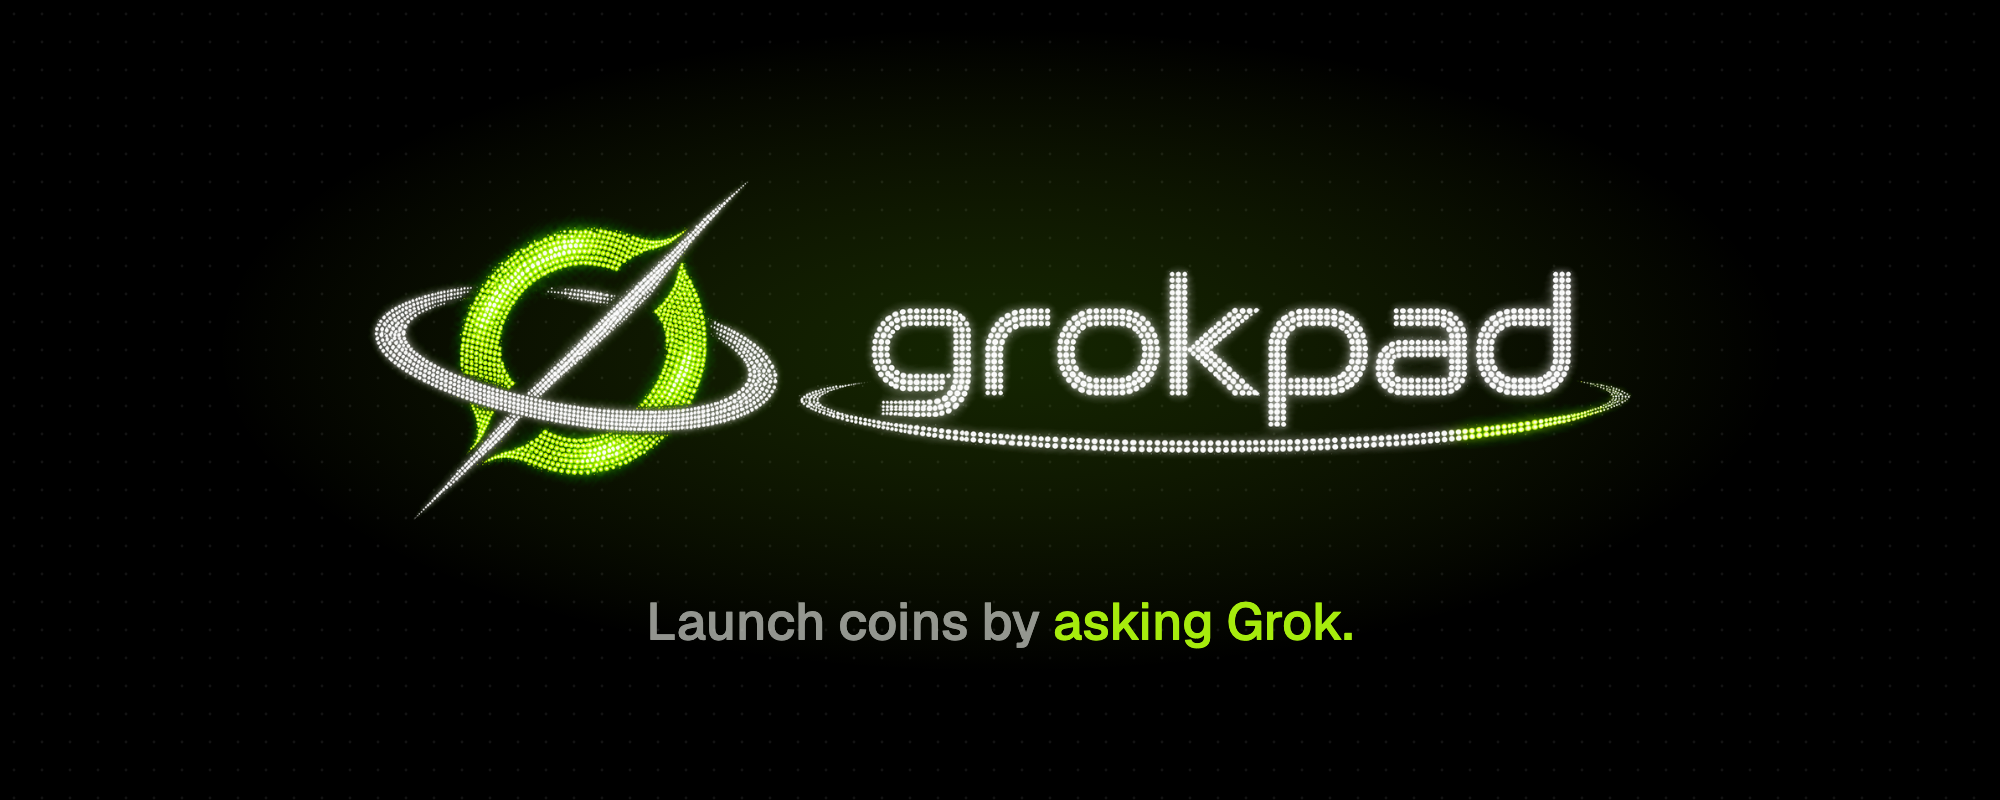
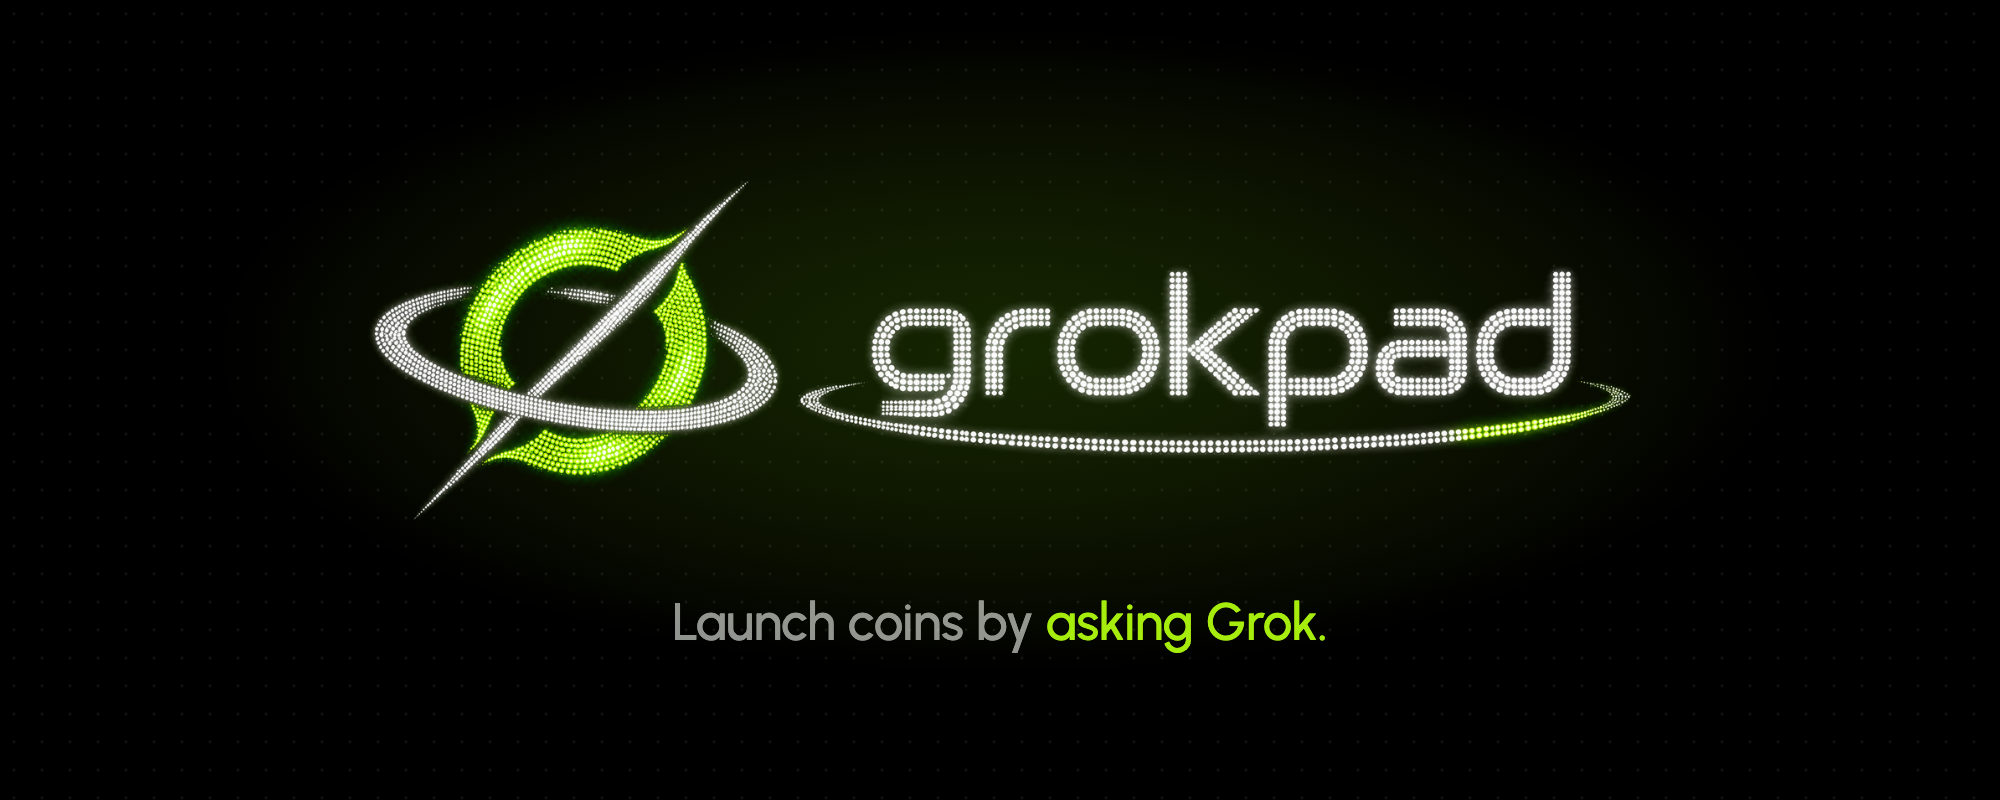
feat: Grokpad article in the brand font kit
Urbanist matches the wordmark's round single-storey letters; Doto in round-dot mode matches its LEDs, so big numbers read as part of the brand.

Changed region(s): [[0.31, 0.75, 0.682, 0.8125]]

diff --git a/kits/grokpad/art/02-setup.html b/kits/grokpad/art/02-setup.html
@@ -1,15 +1,18 @@
 <!doctype html><html><head><meta charset="utf-8">
 <link rel="preconnect" href="https://fonts.googleapis.com"><link rel="preconnect" href="https://fonts.gstatic.com" crossorigin>
-<link href="https://fonts.googleapis.com/css2?family=Geist:wght@400;500;600;700&family=JetBrains+Mono:wght@400;500;700&display=block" rel="stylesheet">
+<link href="https://fonts.googleapis.com/css2?family=Urbanist:wght@400;500;600;700&family=Doto:ROND,wght@0..100,100..900&family=JetBrains+Mono:wght@400;500;700&display=block" rel="stylesheet">
 <style>
 html,body{margin:0;padding:0;background:#000000;overflow:hidden}
 svg{display:block}
-.disp{font-family:Geist;font-weight:600;fill:#f4f6ee;letter-spacing:-0.04em}
-.txt{font-family:Geist;fill:#f4f6ee}
-.muted{font-family:Geist;fill:rgb(244 246 238 / 0.6)}
-.dim{font-family:Geist;fill:rgb(244 246 238 / 0.38)}
+.disp{font-family:Urbanist;font-weight:700;fill:#f4f6ee;letter-spacing:-0.03em}
+.txt{font-family:Urbanist;fill:#f4f6ee}
+.muted{font-family:Urbanist;fill:rgb(244 246 238 / 0.6)}
+.dim{font-family:Urbanist;fill:rgb(244 246 238 / 0.38)}
 .mono{font-family:'JetBrains Mono';fill:#f4f6ee}
 .lime{fill:#a6ec0d}
+.led{fill:#f4f6ee;font-family:Doto;font-variation-settings:'ROND' 100;font-weight:900}
+.led.lime{fill:#a6ec0d}
+.glow{filter:drop-shadow(0 0 10px #5aab04)}
 .panel{fill:#0a0a0a;stroke:rgb(255 255 255 / 0.15);stroke-width:2}
 .panel-lit{fill:#0d1306;stroke:#a6ec0d;stroke-width:3}
 .wire{fill:none;stroke:#a6ec0d;stroke-width:5;stroke-linecap:round}
@@ -18,4 +21,4 @@ svg{display:block}
 </style></head><body><svg width="1600" height="900" viewBox="0 0 1600 900"><defs>
 <radialGradient id="glow" cx="0.5" cy="0.5" r="0.5"><stop offset="0" stop-color="#5aab04" stop-opacity="0.22"/><stop offset="1" stop-color="#a6ec0d" stop-opacity="0"/></radialGradient>
 <pattern id="dots" width="28" height="28" patternUnits="userSpaceOnUse"><circle cx="14" cy="14" r="1.4" fill="#ffffff" fill-opacity="0.075"/></pattern>
-</defs><rect width="1600" height="900" fill="url(#dots)"/><text class="disp" x="800" y="132" font-size="62" text-anchor="middle">Set it up <tspan class="lime">once.</tspan></text><path class="dash" d="M475 450H625"/><path class="dash" d="M975 450H1125"/><rect x="125" y="300" width="350" height="300" rx="20" class="panel"/><rect x="175" y="410" width="250" height="80" rx="16" fill="#f4f6ee"/><text class="txt" x="300" y="462" font-size="28" font-weight="600" text-anchor="middle" style="fill:#000000">Get my Grok link</text><text class="mono" x="300" y="368" font-size="22" text-anchor="middle" style="fill:rgb(244 246 238 / 0.38)">grokpad</text><text class="mono lime" x="300" y="550" font-size="22" text-anchor="middle">/mcp/••••••••</text><rect x="625" y="300" width="350" height="300" rx="20" class="panel"/><text class="mono" x="665" y="362" font-size="22" style="fill:rgb(244 246 238 / 0.38)">Connectors</text><rect x="665" y="394" width="270" height="64" rx="12" fill="#121212" stroke="rgb(255 255 255 / 0.15)" stroke-width="2"/><text class="mono lime" x="685" y="435" font-size="21">https://…/mcp/•••</text><rect x="665" y="480" width="270" height="64" rx="12" fill="none" stroke="#a6ec0d" stroke-width="3"/><text class="txt" x="800" y="521" font-size="26" font-weight="600" text-anchor="middle">+ Add Connector</text><rect x="1125" y="300" width="350" height="300" rx="20" class="panel-lit"/><text class="mono" x="1300" y="368" font-size="22" text-anchor="middle" style="fill:rgb(244 246 238 / 0.38)">launch wallet</text><text class="mono lime" x="1300" y="470" font-size="60" font-weight="700" text-anchor="middle">+0.1 SOL</text><text class="mono" x="1300" y="542" font-size="22" text-anchor="middle" style="fill:rgb(244 246 238 / 0.6)">launch ≈ 0.02 SOL</text><text class="txt" x="300" y="678" font-size="36" font-weight="600" text-anchor="middle">Get your link</text><text class="muted" x="300" y="724" font-size="27" text-anchor="middle">one tap, no sign-up</text><text class="txt" x="800" y="678" font-size="36" font-weight="600" text-anchor="middle">Add it to Grok</text><text class="muted" x="800" y="724" font-size="27" text-anchor="middle">paste it in Connectors</text><text class="txt" x="1300" y="678" font-size="36" font-weight="600" text-anchor="middle">Fund your wallet</text><text class="muted" x="1300" y="724" font-size="27" text-anchor="middle">just what you’ll launch with</text></svg></body></html>
+</defs><rect width="1600" height="900" fill="url(#dots)"/><text class="disp" x="800" y="132" font-size="62" text-anchor="middle">Set it up <tspan class="lime">once.</tspan></text><path class="dash" d="M475 450H625"/><path class="dash" d="M975 450H1125"/><rect x="125" y="300" width="350" height="300" rx="20" class="panel"/><rect x="175" y="410" width="250" height="80" rx="16" fill="#f4f6ee"/><text class="txt" x="300" y="462" font-size="28" font-weight="600" text-anchor="middle" style="fill:#000000">Get my Grok link</text><text class="mono" x="300" y="368" font-size="22" text-anchor="middle" style="fill:rgb(244 246 238 / 0.38)">grokpad</text><text class="mono lime" x="300" y="550" font-size="22" text-anchor="middle">/mcp/••••••••</text><rect x="625" y="300" width="350" height="300" rx="20" class="panel"/><text class="mono" x="665" y="362" font-size="22" style="fill:rgb(244 246 238 / 0.38)">Connectors</text><rect x="665" y="394" width="270" height="64" rx="12" fill="#121212" stroke="rgb(255 255 255 / 0.15)" stroke-width="2"/><text class="mono lime" x="685" y="435" font-size="21">https://…/mcp/•••</text><rect x="665" y="480" width="270" height="64" rx="12" fill="none" stroke="#a6ec0d" stroke-width="3"/><text class="txt" x="800" y="521" font-size="26" font-weight="600" text-anchor="middle">+ Add Connector</text><rect x="1125" y="300" width="350" height="300" rx="20" class="panel-lit"/><text class="mono" x="1300" y="368" font-size="22" text-anchor="middle" style="fill:rgb(244 246 238 / 0.38)">launch wallet</text><text class="led lime glow" x="1300" y="472" font-size="56" text-anchor="middle">0.1 SOL</text><text class="mono" x="1300" y="542" font-size="22" text-anchor="middle" style="fill:rgb(244 246 238 / 0.6)">launch ≈ 0.02 SOL</text><text class="txt" x="300" y="678" font-size="36" font-weight="600" text-anchor="middle">Get your link</text><text class="muted" x="300" y="724" font-size="27" text-anchor="middle">one tap, no sign-up</text><text class="txt" x="800" y="678" font-size="36" font-weight="600" text-anchor="middle">Add it to Grok</text><text class="muted" x="800" y="724" font-size="27" text-anchor="middle">paste it in Connectors</text><text class="txt" x="1300" y="678" font-size="36" font-weight="600" text-anchor="middle">Fund your wallet</text><text class="muted" x="1300" y="724" font-size="27" text-anchor="middle">just what you’ll launch with</text></svg></body></html>

diff --git a/kits/grokpad/art/04-fees.html b/kits/grokpad/art/04-fees.html
@@ -1,15 +1,18 @@
 <!doctype html><html><head><meta charset="utf-8">
 <link rel="preconnect" href="https://fonts.googleapis.com"><link rel="preconnect" href="https://fonts.gstatic.com" crossorigin>
-<link href="https://fonts.googleapis.com/css2?family=Geist:wght@400;500;600;700&family=JetBrains+Mono:wght@400;500;700&display=block" rel="stylesheet">
+<link href="https://fonts.googleapis.com/css2?family=Urbanist:wght@400;500;600;700&family=Doto:ROND,wght@0..100,100..900&family=JetBrains+Mono:wght@400;500;700&display=block" rel="stylesheet">
 <style>
 html,body{margin:0;padding:0;background:#000000;overflow:hidden}
 svg{display:block}
-.disp{font-family:Geist;font-weight:600;fill:#f4f6ee;letter-spacing:-0.04em}
-.txt{font-family:Geist;fill:#f4f6ee}
-.muted{font-family:Geist;fill:rgb(244 246 238 / 0.6)}
-.dim{font-family:Geist;fill:rgb(244 246 238 / 0.38)}
+.disp{font-family:Urbanist;font-weight:700;fill:#f4f6ee;letter-spacing:-0.03em}
+.txt{font-family:Urbanist;fill:#f4f6ee}
+.muted{font-family:Urbanist;fill:rgb(244 246 238 / 0.6)}
+.dim{font-family:Urbanist;fill:rgb(244 246 238 / 0.38)}
 .mono{font-family:'JetBrains Mono';fill:#f4f6ee}
 .lime{fill:#a6ec0d}
+.led{fill:#f4f6ee;font-family:Doto;font-variation-settings:'ROND' 100;font-weight:900}
+.led.lime{fill:#a6ec0d}
+.glow{filter:drop-shadow(0 0 10px #5aab04)}
 .panel{fill:#0a0a0a;stroke:rgb(255 255 255 / 0.15);stroke-width:2}
 .panel-lit{fill:#0d1306;stroke:#a6ec0d;stroke-width:3}
 .wire{fill:none;stroke:#a6ec0d;stroke-width:5;stroke-linecap:round}
@@ -18,4 +21,4 @@ svg{display:block}
 </style></head><body><svg width="1600" height="900" viewBox="0 0 1600 900"><defs>
 <radialGradient id="glow" cx="0.5" cy="0.5" r="0.5"><stop offset="0" stop-color="#5aab04" stop-opacity="0.22"/><stop offset="1" stop-color="#a6ec0d" stop-opacity="0"/></radialGradient>
 <pattern id="dots" width="28" height="28" patternUnits="userSpaceOnUse"><circle cx="14" cy="14" r="1.4" fill="#ffffff" fill-opacity="0.075"/></pattern>
-</defs><rect width="1600" height="900" fill="url(#dots)"/><text class="disp" x="800" y="132" font-size="62" text-anchor="middle"><tspan class="lime">80%</tspan> of the fees are yours.</text><rect x="110" y="370" width="360" height="220" rx="20" class="panel"/><text class="muted" x="150" y="440" font-size="28">Creator fees</text><text class="mono" x="150" y="506" font-size="50" font-weight="700">$MCAT</text><text class="dim" x="150" y="552" font-size="25">every trade, forever</text><path class="wire" d="M470 480H640"/><circle cx="760" cy="480" r="195.5" fill="url(#glow)"/><image href="logo.png" x="645.0" y="365.0" width="230" height="230"/><path d="M870 480 C960 480 960 330 1050 330" fill="none" stroke="#a6ec0d" stroke-width="12" stroke-linecap="round"/><path d="M870 480 C960 480 960 650 1050 650" class="wire-dim"/><rect x="1050" y="235" width="440" height="190" rx="20" class="panel-lit"/><text class="mono lime" x="1090" y="364" font-size="96" font-weight="700">80%</text><text class="txt" x="1450" y="324" font-size="32" font-weight="600" text-anchor="end">You</text><text class="muted" x="1450" y="364" font-size="25" text-anchor="end">your wallet</text><rect x="1050" y="570" width="440" height="160" rx="20" class="panel"/><text class="mono" x="1090" y="674" font-size="70" font-weight="700" style="fill:rgb(244 246 238 / 0.6)">20%</text><text class="txt" x="1450" y="660" font-size="32" font-weight="600" text-anchor="end" style="fill:rgb(244 246 238 / 0.6)">Grokpad</text><text class="dim" x="800" y="840" font-size="27" text-anchor="middle">Locked on pump.fun’s fee program at launch. Nobody can change it, us included.</text></svg></body></html>
+</defs><rect width="1600" height="900" fill="url(#dots)"/><text class="disp" x="800" y="132" font-size="62" text-anchor="middle"><tspan class="lime">80%</tspan> of the fees are yours.</text><rect x="110" y="370" width="360" height="220" rx="20" class="panel"/><text class="muted" x="150" y="440" font-size="28">Creator fees</text><text class="led" x="150" y="508" font-size="58">$MCAT</text><text class="dim" x="150" y="552" font-size="25">every trade, forever</text><path class="wire" d="M470 480H640"/><circle cx="760" cy="480" r="195.5" fill="url(#glow)"/><image href="logo.png" x="645.0" y="365.0" width="230" height="230"/><path d="M870 480 C960 480 960 330 1050 330" fill="none" stroke="#a6ec0d" stroke-width="12" stroke-linecap="round"/><path d="M870 480 C960 480 960 650 1050 650" class="wire-dim"/><rect x="1050" y="235" width="440" height="190" rx="20" class="panel-lit"/><text class="led lime glow" x="1085" y="368" font-size="108">80%</text><text class="txt" x="1450" y="324" font-size="32" font-weight="600" text-anchor="end">You</text><text class="muted" x="1450" y="364" font-size="25" text-anchor="end">your wallet</text><rect x="1050" y="570" width="440" height="160" rx="20" class="panel"/><text class="led" x="1085" y="678" font-size="80" style="fill:rgb(244 246 238 / 0.6)">20%</text><text class="txt" x="1450" y="660" font-size="32" font-weight="600" text-anchor="end" style="fill:rgb(244 246 238 / 0.6)">Grokpad</text><text class="dim" x="800" y="840" font-size="27" text-anchor="middle">Locked on pump.fun’s fee program at launch. Nobody can change it, us included.</text></svg></body></html>

diff --git a/kits/grokpad/art/01-cover.html b/kits/grokpad/art/01-cover.html
@@ -1,15 +1,18 @@
 <!doctype html><html><head><meta charset="utf-8">
 <link rel="preconnect" href="https://fonts.googleapis.com"><link rel="preconnect" href="https://fonts.gstatic.com" crossorigin>
-<link href="https://fonts.googleapis.com/css2?family=Geist:wght@400;500;600;700&family=JetBrains+Mono:wght@400;500;700&display=block" rel="stylesheet">
+<link href="https://fonts.googleapis.com/css2?family=Urbanist:wght@400;500;600;700&family=Doto:ROND,wght@0..100,100..900&family=JetBrains+Mono:wght@400;500;700&display=block" rel="stylesheet">
 <style>
 html,body{margin:0;padding:0;background:#000000;overflow:hidden}
 svg{display:block}
-.disp{font-family:Geist;font-weight:600;fill:#f4f6ee;letter-spacing:-0.04em}
-.txt{font-family:Geist;fill:#f4f6ee}
-.muted{font-family:Geist;fill:rgb(244 246 238 / 0.6)}
-.dim{font-family:Geist;fill:rgb(244 246 238 / 0.38)}
+.disp{font-family:Urbanist;font-weight:700;fill:#f4f6ee;letter-spacing:-0.03em}
+.txt{font-family:Urbanist;fill:#f4f6ee}
+.muted{font-family:Urbanist;fill:rgb(244 246 238 / 0.6)}
+.dim{font-family:Urbanist;fill:rgb(244 246 238 / 0.38)}
 .mono{font-family:'JetBrains Mono';fill:#f4f6ee}
 .lime{fill:#a6ec0d}
+.led{fill:#f4f6ee;font-family:Doto;font-variation-settings:'ROND' 100;font-weight:900}
+.led.lime{fill:#a6ec0d}
+.glow{filter:drop-shadow(0 0 10px #5aab04)}
 .panel{fill:#0a0a0a;stroke:rgb(255 255 255 / 0.15);stroke-width:2}
 .panel-lit{fill:#0d1306;stroke:#a6ec0d;stroke-width:3}
 .wire{fill:none;stroke:#a6ec0d;stroke-width:5;stroke-linecap:round}

diff --git a/kits/grokpad/art/03-ask.html b/kits/grokpad/art/03-ask.html
@@ -1,15 +1,18 @@
 <!doctype html><html><head><meta charset="utf-8">
 <link rel="preconnect" href="https://fonts.googleapis.com"><link rel="preconnect" href="https://fonts.gstatic.com" crossorigin>
-<link href="https://fonts.googleapis.com/css2?family=Geist:wght@400;500;600;700&family=JetBrains+Mono:wght@400;500;700&display=block" rel="stylesheet">
+<link href="https://fonts.googleapis.com/css2?family=Urbanist:wght@400;500;600;700&family=Doto:ROND,wght@0..100,100..900&family=JetBrains+Mono:wght@400;500;700&display=block" rel="stylesheet">
 <style>
 html,body{margin:0;padding:0;background:#000000;overflow:hidden}
 svg{display:block}
-.disp{font-family:Geist;font-weight:600;fill:#f4f6ee;letter-spacing:-0.04em}
-.txt{font-family:Geist;fill:#f4f6ee}
-.muted{font-family:Geist;fill:rgb(244 246 238 / 0.6)}
-.dim{font-family:Geist;fill:rgb(244 246 238 / 0.38)}
+.disp{font-family:Urbanist;font-weight:700;fill:#f4f6ee;letter-spacing:-0.03em}
+.txt{font-family:Urbanist;fill:#f4f6ee}
+.muted{font-family:Urbanist;fill:rgb(244 246 238 / 0.6)}
+.dim{font-family:Urbanist;fill:rgb(244 246 238 / 0.38)}
 .mono{font-family:'JetBrains Mono';fill:#f4f6ee}
 .lime{fill:#a6ec0d}
+.led{fill:#f4f6ee;font-family:Doto;font-variation-settings:'ROND' 100;font-weight:900}
+.led.lime{fill:#a6ec0d}
+.glow{filter:drop-shadow(0 0 10px #5aab04)}
 .panel{fill:#0a0a0a;stroke:rgb(255 255 255 / 0.15);stroke-width:2}
 .panel-lit{fill:#0d1306;stroke:#a6ec0d;stroke-width:3}
 .wire{fill:none;stroke:#a6ec0d;stroke-width:5;stroke-linecap:round}

diff --git a/kits/grokpad/art/05-close.html b/kits/grokpad/art/05-close.html
@@ -1,15 +1,18 @@
 <!doctype html><html><head><meta charset="utf-8">
 <link rel="preconnect" href="https://fonts.googleapis.com"><link rel="preconnect" href="https://fonts.gstatic.com" crossorigin>
-<link href="https://fonts.googleapis.com/css2?family=Geist:wght@400;500;600;700&family=JetBrains+Mono:wght@400;500;700&display=block" rel="stylesheet">
+<link href="https://fonts.googleapis.com/css2?family=Urbanist:wght@400;500;600;700&family=Doto:ROND,wght@0..100,100..900&family=JetBrains+Mono:wght@400;500;700&display=block" rel="stylesheet">
 <style>
 html,body{margin:0;padding:0;background:#000000;overflow:hidden}
 svg{display:block}
-.disp{font-family:Geist;font-weight:600;fill:#f4f6ee;letter-spacing:-0.04em}
-.txt{font-family:Geist;fill:#f4f6ee}
-.muted{font-family:Geist;fill:rgb(244 246 238 / 0.6)}
-.dim{font-family:Geist;fill:rgb(244 246 238 / 0.38)}
+.disp{font-family:Urbanist;font-weight:700;fill:#f4f6ee;letter-spacing:-0.03em}
+.txt{font-family:Urbanist;fill:#f4f6ee}
+.muted{font-family:Urbanist;fill:rgb(244 246 238 / 0.6)}
+.dim{font-family:Urbanist;fill:rgb(244 246 238 / 0.38)}
 .mono{font-family:'JetBrains Mono';fill:#f4f6ee}
 .lime{fill:#a6ec0d}
+.led{fill:#f4f6ee;font-family:Doto;font-variation-settings:'ROND' 100;font-weight:900}
+.led.lime{fill:#a6ec0d}
+.glow{filter:drop-shadow(0 0 10px #5aab04)}
 .panel{fill:#0a0a0a;stroke:rgb(255 255 255 / 0.15);stroke-width:2}
 .panel-lit{fill:#0d1306;stroke:#a6ec0d;stroke-width:3}
 .wire{fill:none;stroke:#a6ec0d;stroke-width:5;stroke-linecap:round}

diff --git a/kits/grokpad/art/gen.py b/kits/grokpad/art/gen.py
@@ -1,21 +1,24 @@
 """Builds each article picture as an HTML page in Grokpad's look. tools/render.py shoots them to PNG.
 
 Colours, fonts and logos come from the grok-launcher redesign (frontend worktree: globals.css, docs/BRAND.md,
-public/brand): LED white on true black, Geist + JetBrains Mono, the logo's lime as the one accent.
+public/brand): LED white on true black, Urbanist + Doto + JetBrains Mono (the Grokpad font kit), the logo's lime as the one accent.
 """
 
 HEAD = '''<!doctype html><html><head><meta charset="utf-8">
 <link rel="preconnect" href="https://fonts.googleapis.com"><link rel="preconnect" href="https://fonts.gstatic.com" crossorigin>
-<link href="https://fonts.googleapis.com/css2?family=Geist:wght@400;500;600;700&family=JetBrains+Mono:wght@400;500;700&display=block" rel="stylesheet">
+<link href="https://fonts.googleapis.com/css2?family=Urbanist:wght@400;500;600;700&family=Doto:ROND,wght@0..100,100..900&family=JetBrains+Mono:wght@400;500;700&display=block" rel="stylesheet">
 <style>
 html,body{margin:0;padding:0;background:#000000;overflow:hidden}
 svg{display:block}
-.disp{font-family:Geist;font-weight:600;fill:#f4f6ee;letter-spacing:-0.04em}
-.txt{font-family:Geist;fill:#f4f6ee}
-.muted{font-family:Geist;fill:rgb(244 246 238 / 0.6)}
-.dim{font-family:Geist;fill:rgb(244 246 238 / 0.38)}
+.disp{font-family:Urbanist;font-weight:700;fill:#f4f6ee;letter-spacing:-0.03em}
+.txt{font-family:Urbanist;fill:#f4f6ee}
+.muted{font-family:Urbanist;fill:rgb(244 246 238 / 0.6)}
+.dim{font-family:Urbanist;fill:rgb(244 246 238 / 0.38)}
 .mono{font-family:'JetBrains Mono';fill:#f4f6ee}
 .lime{fill:#a6ec0d}
+.led{fill:#f4f6ee;font-family:Doto;font-variation-settings:'ROND' 100;font-weight:900}
+.led.lime{fill:#a6ec0d}
+.glow{filter:drop-shadow(0 0 10px #5aab04)}
 .panel{fill:#0a0a0a;stroke:rgb(255 255 255 / 0.15);stroke-width:2}
 .panel-lit{fill:#0d1306;stroke:#a6ec0d;stroke-width:3}
 .wire{fill:none;stroke:#a6ec0d;stroke-width:5;stroke-linecap:round}
@@ -80,7 +83,7 @@ b.append(f'<text class="txt" x="{xs[1]}" y="{cy + 71}" font-size="26" font-weigh
 # 3: fund
 b.append(panel(xs[2] - 175, cy - 150, 350, 300, lit=True))
 b.append(f'<text class="mono" x="{xs[2]}" y="{cy - 82}" font-size="22" text-anchor="middle" style="fill:rgb(244 246 238 / 0.38)">launch wallet</text>')
-b.append(f'<text class="mono lime" x="{xs[2]}" y="{cy + 20}" font-size="60" font-weight="700" text-anchor="middle">+0.1 SOL</text>')
+b.append(f'<text class="led lime glow" x="{xs[2]}" y="{cy + 22}" font-size="56" text-anchor="middle">0.1 SOL</text>')
 b.append(f'<text class="mono" x="{xs[2]}" y="{cy + 92}" font-size="22" text-anchor="middle" style="fill:rgb(244 246 238 / 0.6)">launch ≈ 0.02 SOL</text>')
 steps = [('Get your link', 'one tap, no sign-up'), ('Add it to Grok', 'paste it in Connectors'), ('Fund your wallet', 'just what you’ll launch with')]
 for x, (a, c) in zip(xs, steps):
@@ -116,7 +119,7 @@ b = ['<text class="disp" x="800" y="132" font-size="62" text-anchor="middle"><ts
 cy = 480
 b.append(panel(110, cy - 110, 360, 220))
 b.append(f'<text class="muted" x="150" y="{cy - 40}" font-size="28">Creator fees</text>')
-b.append(f'<text class="mono" x="150" y="{cy + 26}" font-size="50" font-weight="700">$MCAT</text>')
+b.append(f'<text class="led" x="150" y="{cy + 28}" font-size="58">$MCAT</text>')
 b.append(f'<text class="dim" x="150" y="{cy + 72}" font-size="25">every trade, forever</text>')
 b.append(f'<path class="wire" d="M470 {cy}H640"/>')
 b.append(mark(760, cy, 230))
@@ -125,11 +128,11 @@ y1, y2 = 330, 650
 b.append(f'<path d="M870 {cy} C960 {cy} 960 {y1} 1050 {y1}" fill="none" stroke="{LIME}" stroke-width="12" stroke-linecap="round"/>')
 b.append(f'<path d="M870 {cy} C960 {cy} 960 {y2} 1050 {y2}" class="wire-dim"/>')
 b.append(panel(1050, y1 - 95, 440, 190, lit=True))
-b.append(f'<text class="mono lime" x="1090" y="{y1 + 34}" font-size="96" font-weight="700">80%</text>')
+b.append(f'<text class="led lime glow" x="1085" y="{y1 + 38}" font-size="108">80%</text>')
 b.append(f'<text class="txt" x="1450" y="{y1 - 6}" font-size="32" font-weight="600" text-anchor="end">You</text>')
 b.append(f'<text class="muted" x="1450" y="{y1 + 34}" font-size="25" text-anchor="end">your wallet</text>')
 b.append(panel(1050, y2 - 80, 440, 160))
-b.append(f'<text class="mono" x="1090" y="{y2 + 24}" font-size="70" font-weight="700" style="fill:rgb(244 246 238 / 0.6)">20%</text>')
+b.append(f'<text class="led" x="1085" y="{y2 + 28}" font-size="80" style="fill:rgb(244 246 238 / 0.6)">20%</text>')
 b.append(f'<text class="txt" x="1450" y="{y2 + 10}" font-size="32" font-weight="600" text-anchor="end" style="fill:rgb(244 246 238 / 0.6)">Grokpad</text>')
 b.append('<text class="dim" x="800" y="840" font-size="27" text-anchor="middle">Locked on pump.fun’s fee program at launch. Nobody can change it, us included.</text>')
 page('04-fees.html', 1600, 900, b)
